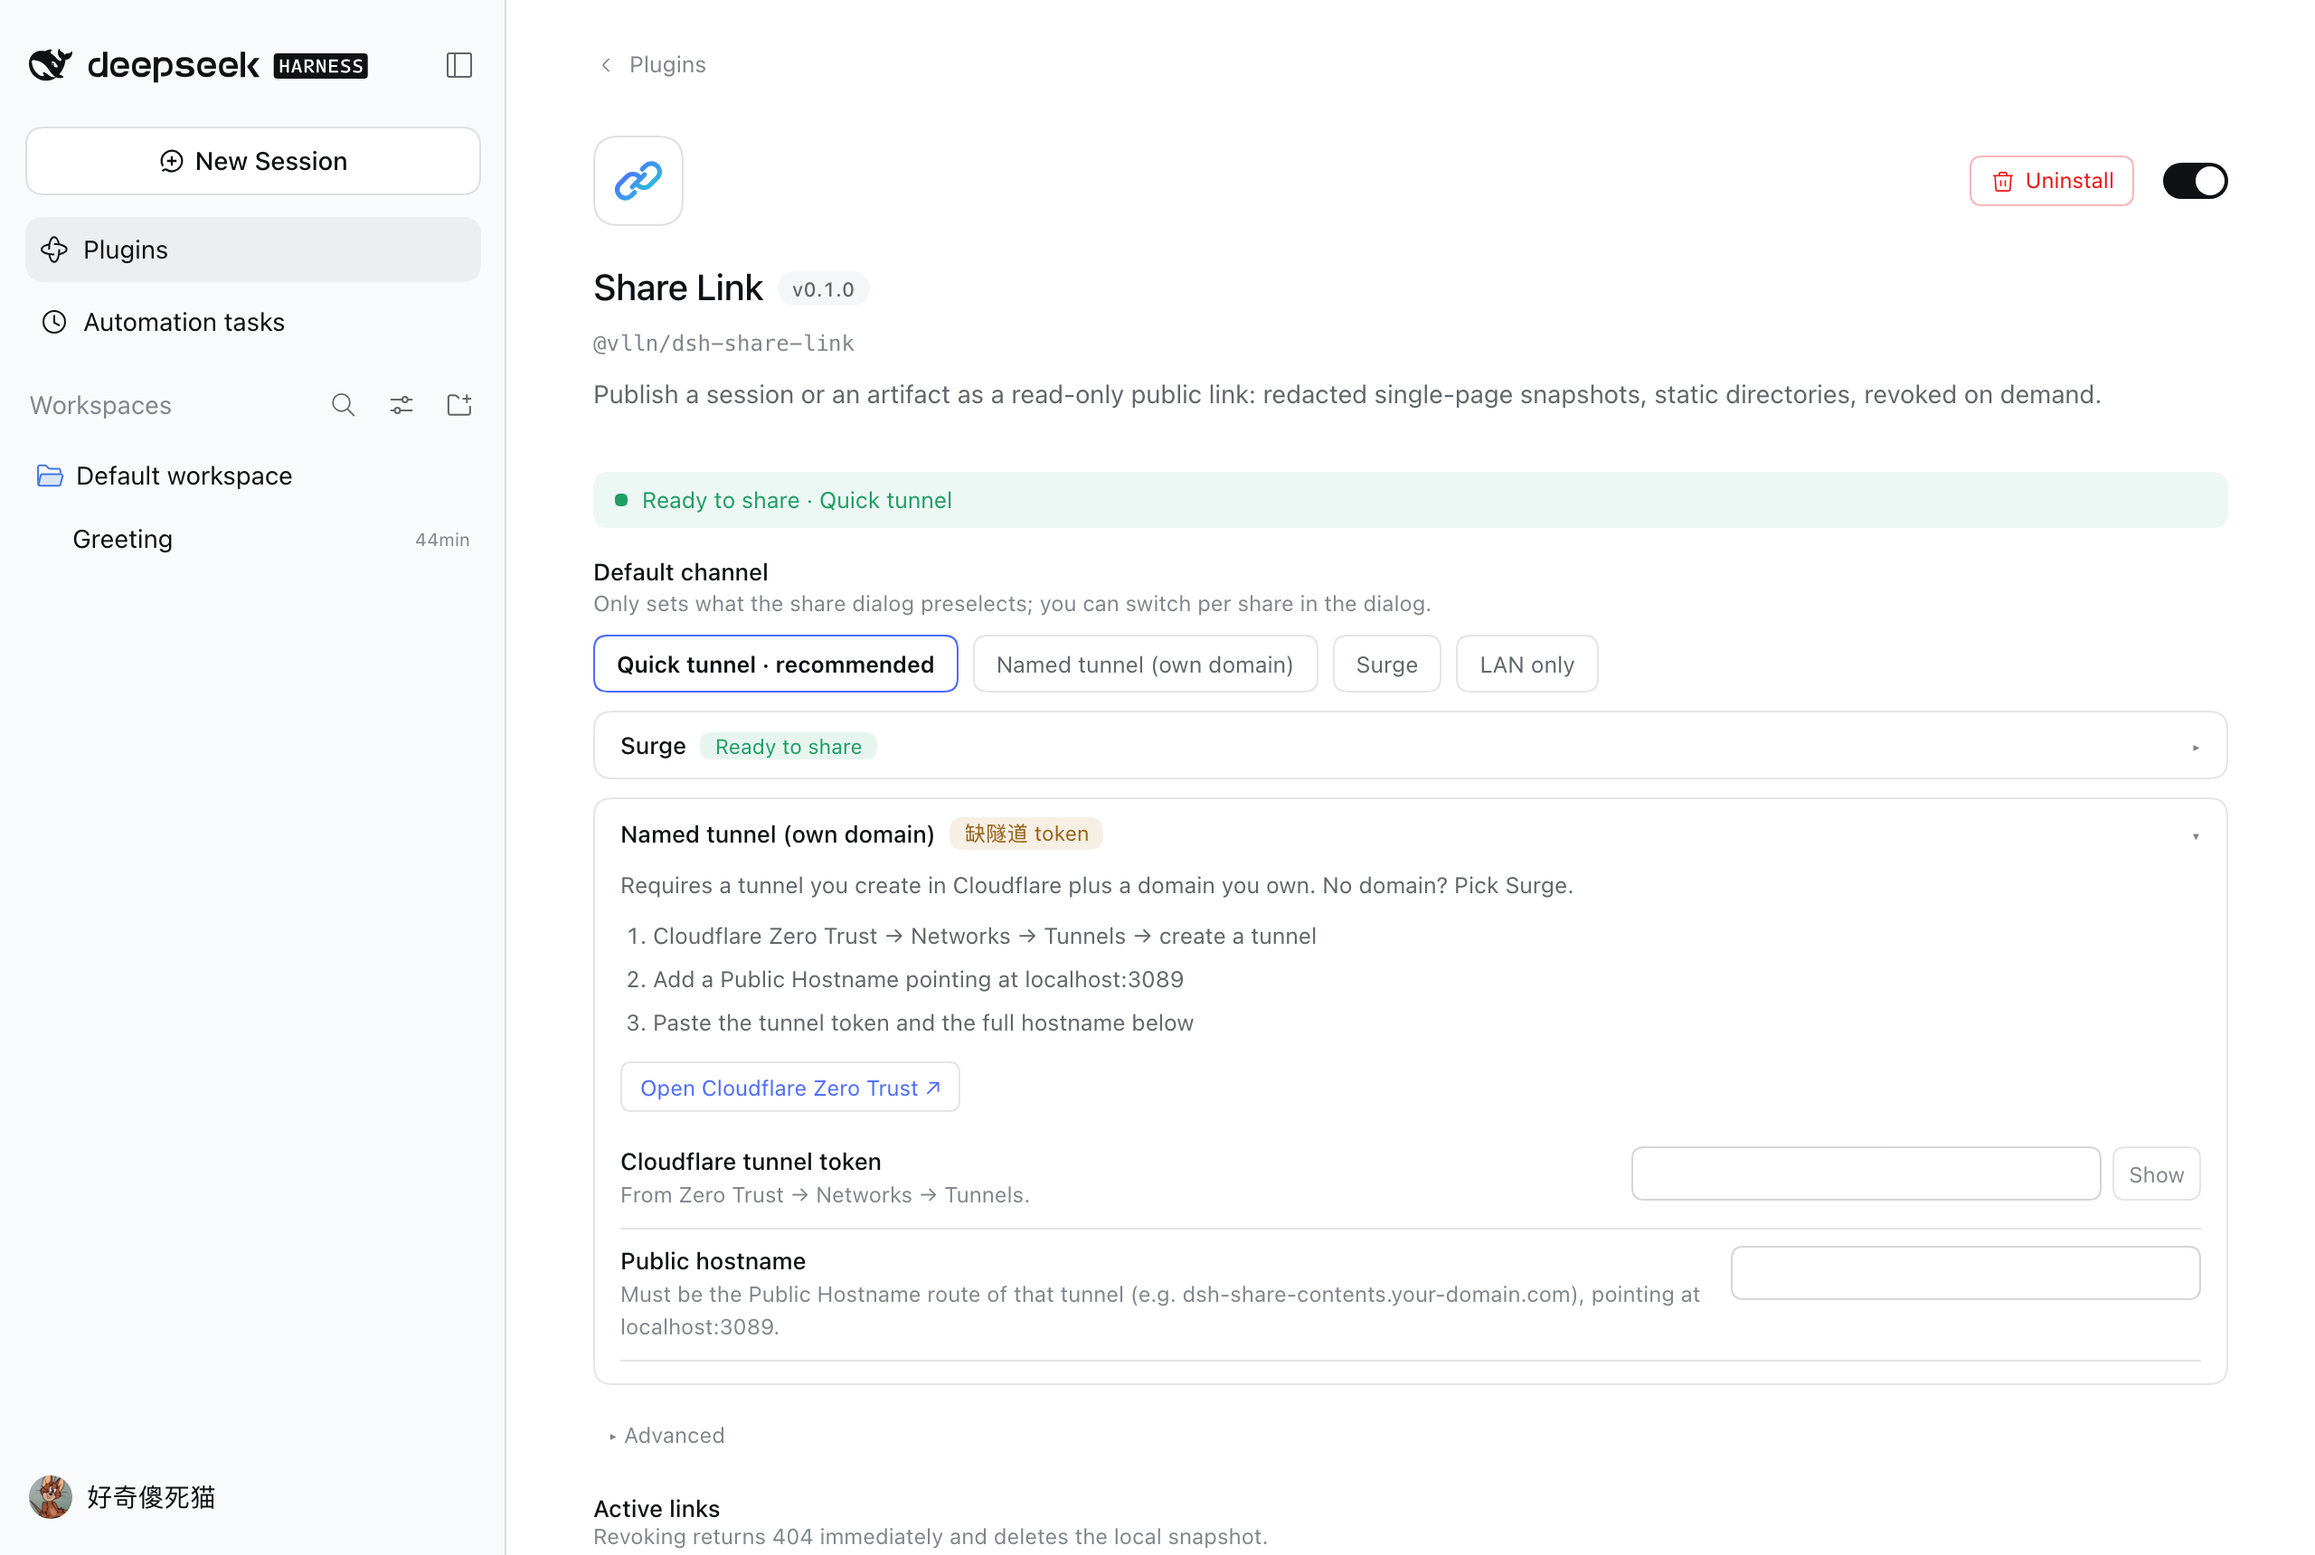
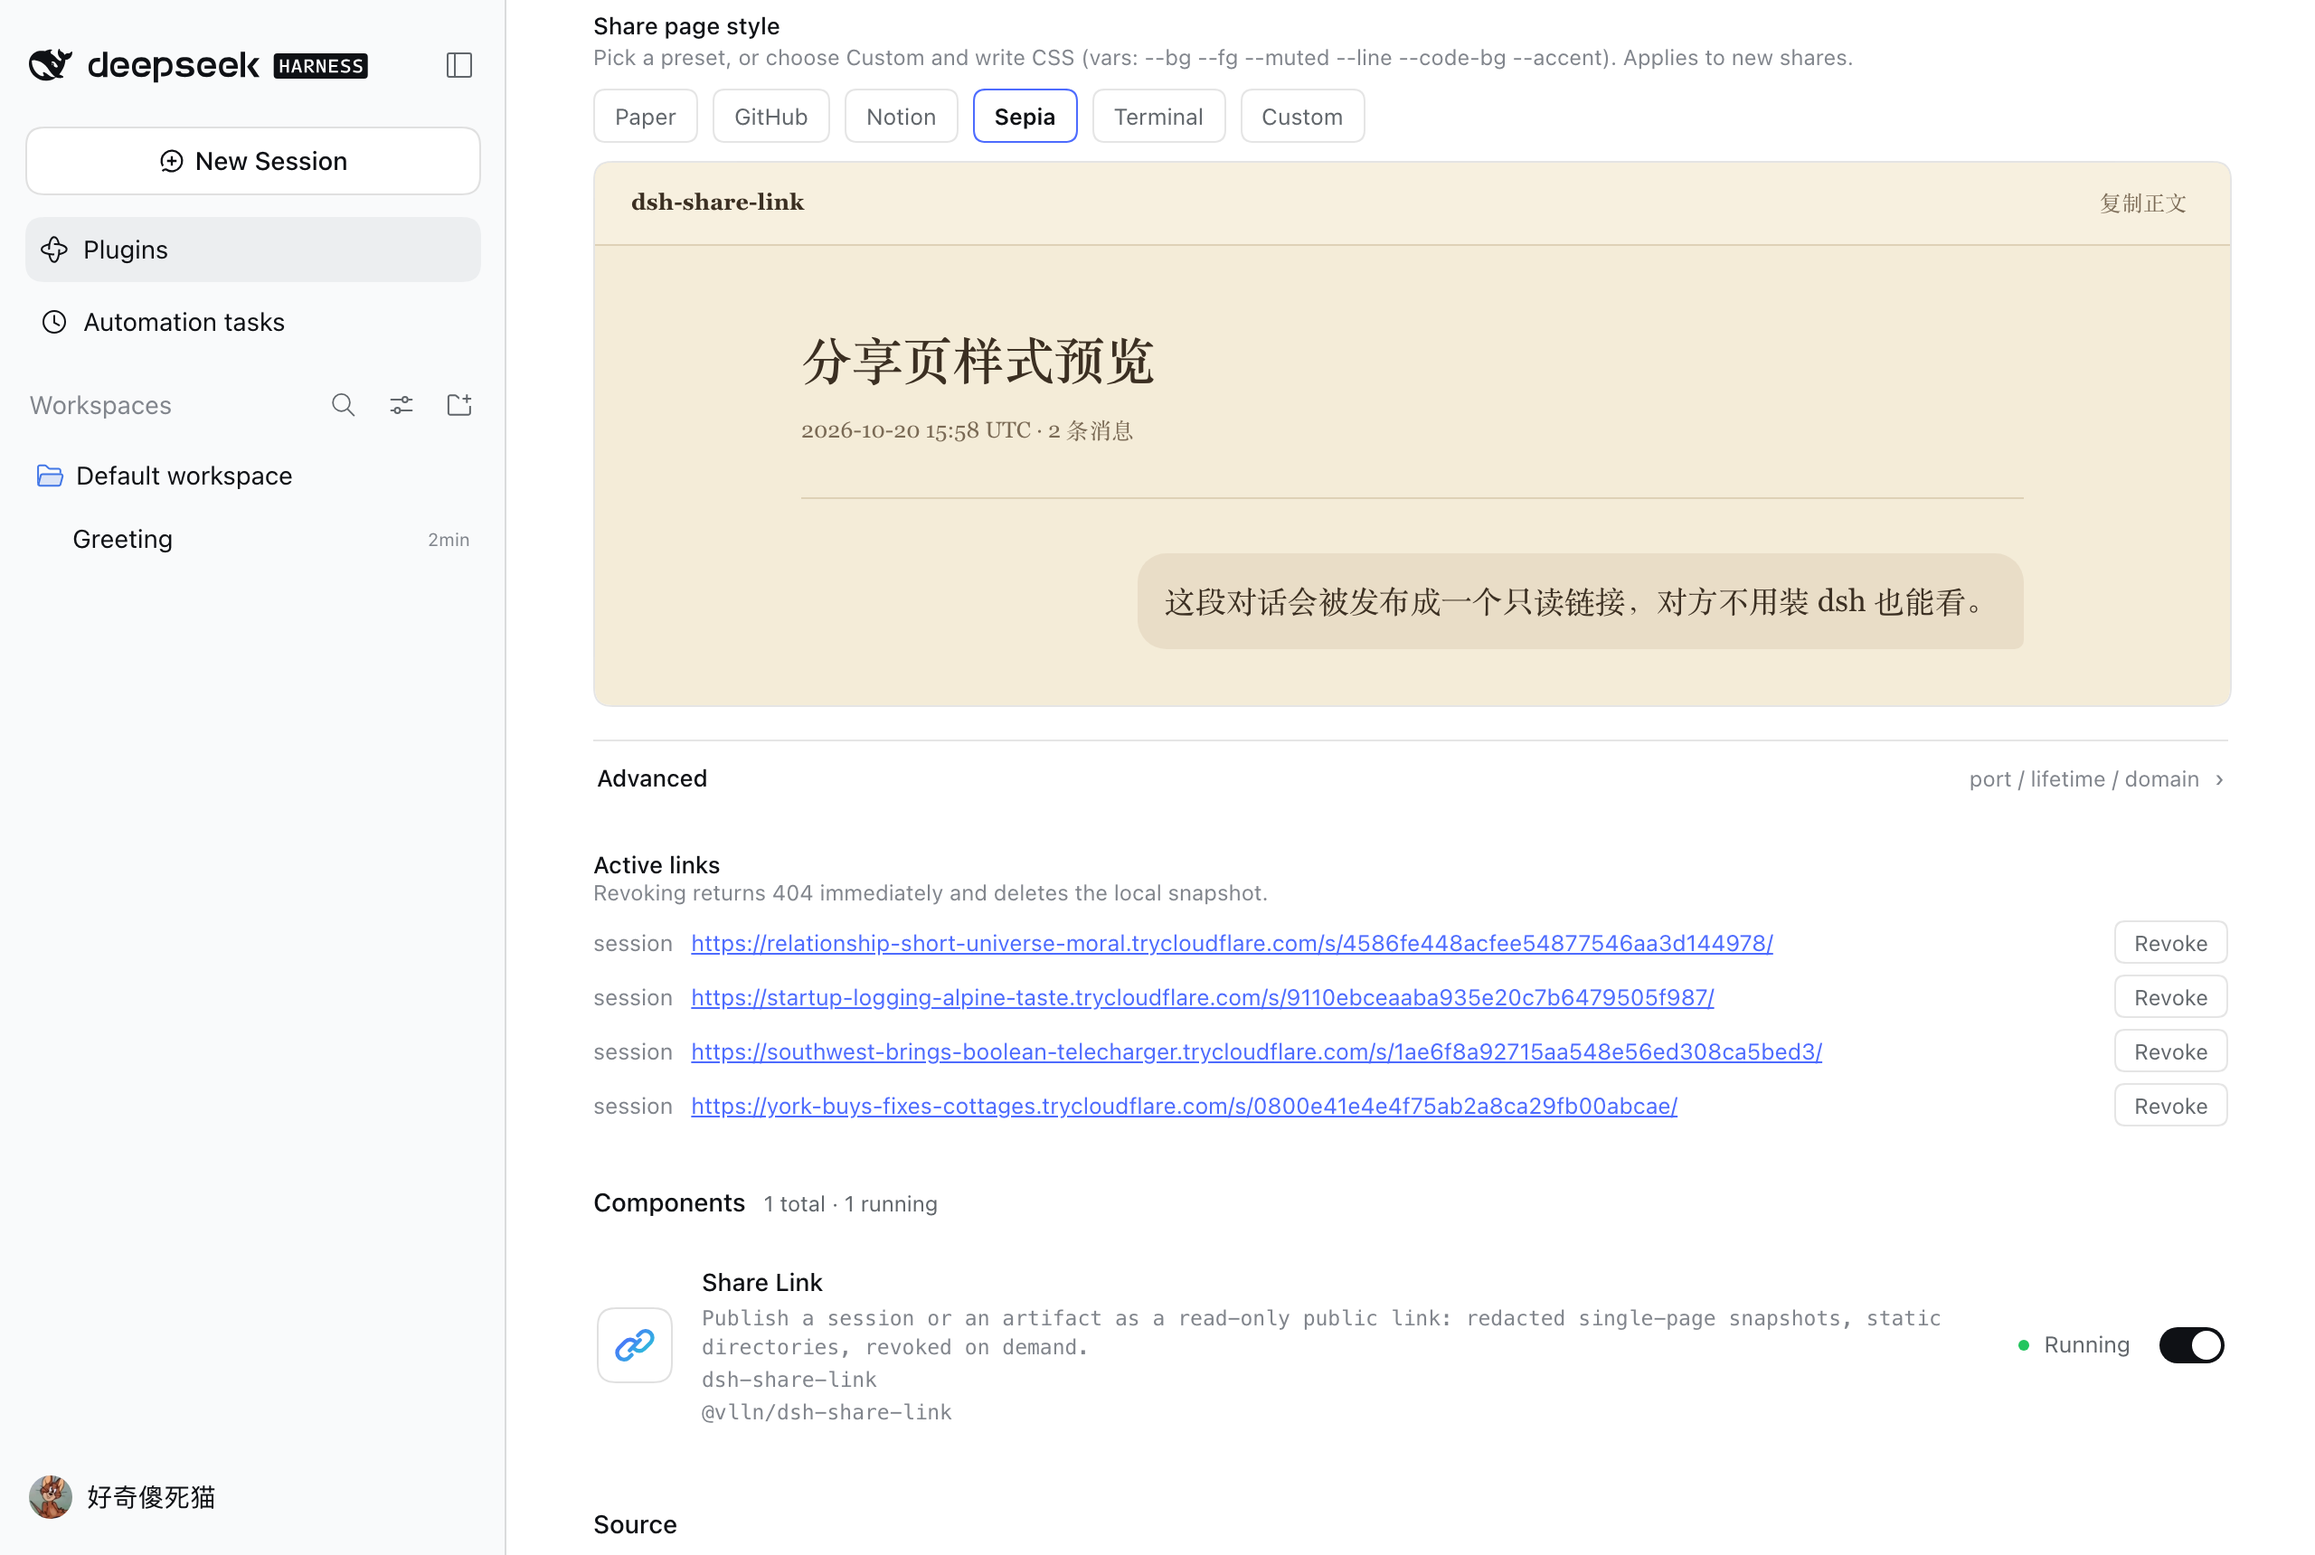
style(pages): 对话式排版 + 去噪 + 文字按钮
- 用户消息改为右对齐气泡，助手回复回归正文流，逐条可复制
- 删除「只读快照」徽标、指纹/脱敏状态行
- 复制按钮改成无边框文字/图标按钮
- Star 文案改为「喜欢这个插件🌟」
- 设置卡「高级设置」改成整行可点的折叠行（更好的层次）

diff --git a/src/client/settings-card.ts b/src/client/settings-card.ts
@@ -509,15 +509,26 @@ export function SettingsCard(props) {
 
     failed === '' ? null : el('p', { role: 'status', style: { margin: '10px 0 0', fontSize: 12, color: 'var(--dsw-alias-state-error-primary)' } }, t('writeFailed')),
 
-    el('button', {
-      type: 'button',
-      'data-share-advanced': 'toggle',
-      onClick: () => setAdvanced((value) => !value),
-      style: {
-        alignSelf: 'flex-start', marginTop: 14, height: 26, padding: '0 8px', borderRadius: 7,
-        border: 0, background: 'transparent', color: 'var(--dsw-alias-label-tertiary)', fontSize: 12, cursor: 'pointer',
+    el(
+      'button',
+      {
+        type: 'button',
+        'data-share-advanced': 'toggle',
+        'data-open': advanced ? 'true' : 'false',
+        onClick: () => setAdvanced((value) => !value),
+        style: {
+          display: 'flex', alignItems: 'center', gap: 8, width: '100%', boxSizing: 'border-box',
+          marginTop: 18, padding: '12px 2px', border: 0, borderTop: '1px solid var(--dsw-alias-border-l2)',
+          background: 'transparent', color: 'var(--dsw-alias-label-primary)', fontSize: 13,
+          fontWeight: 500, cursor: 'pointer', textAlign: 'left',
+        },
       },
-    }, `${advanced ? '▾' : '▸'} ${t('advanced')}`),
+      el('span', null, t('advanced')),
+      el('span', { style: { flex: 1 } }),
+      el('span', { style: { color: 'var(--dsw-alias-label-tertiary)', fontSize: 12, fontWeight: 400 } },
+        advanced ? t('collapse') : t('advanced.hintShort')),
+      el('span', { style: { color: 'var(--dsw-alias-label-tertiary)', transform: advanced ? 'rotate(90deg)' : 'none', transition: 'transform .15s ease' } }, '›'),
+    ),
     advanced
       ? el(
           'div',
@@ -599,6 +610,8 @@ export const zh = {
   notReady: '还不能分享',
   advanced: '高级设置',
   'advanced.hint': '一般不用改：端口、默认有效期、Surge 域名后缀。',
+  'advanced.hintShort': '端口 / 有效期 / 域名',
+  collapse: '收起',
   'channel.quick.desc': '零配置：dsh 在跑就有链接，重启换域名。适合临时发给别人看一眼。首次使用会自动下载 cloudflared（约 50 MB，需要能访问 GitHub）。',
   'channel.surge.desc': '免费账号即可，得到永久固定域名，随时可撤销。',
   'channel.named.desc': '需要你自己在 Cloudflare 建隧道并绑定域名。没有自有域名请直接选 Surge。',
@@ -667,6 +680,8 @@ export const en = {
   notReady: 'Not ready yet',
   advanced: 'Advanced',
   'advanced.hint': 'Usually not needed: port, default lifetime, Surge domain suffix.',
+  'advanced.hintShort': 'port / lifetime / domain',
+  collapse: 'Collapse',
   'channel.quick.desc': 'Zero config: the link lives as long as dsh runs; the hostname changes on restart. On first use it downloads cloudflared (~50 MB, needs GitHub access).',
   'channel.surge.desc': 'Free account is enough; you get a stable domain that you can revoke any time.',
   'channel.named.desc': 'Requires a tunnel you create in Cloudflare plus a domain you own. No domain? Pick Surge.',

diff --git a/lib/client.js b/lib/client.js
@@ -622,20 +622,34 @@ window.__ModuleLoader__.load({
 			}, t("writeFailed")), el("button", {
 				type: "button",
 				"data-share-advanced": "toggle",
+				"data-open": advanced ? "true" : "false",
 				onClick: () => setAdvanced((value) => !value),
 				style: {
-					alignSelf: "flex-start",
-					marginTop: 14,
-					height: 26,
-					padding: "0 8px",
-					borderRadius: 7,
+					display: "flex",
+					alignItems: "center",
+					gap: 8,
+					width: "100%",
+					boxSizing: "border-box",
+					marginTop: 18,
+					padding: "12px 2px",
 					border: 0,
+					borderTop: "1px solid var(--dsw-alias-border-l2)",
 					background: "transparent",
-					color: "var(--dsw-alias-label-tertiary)",
-					fontSize: 12,
-					cursor: "pointer"
+					color: "var(--dsw-alias-label-primary)",
+					fontSize: 13,
+					fontWeight: 500,
+					cursor: "pointer",
+					textAlign: "left"
 				}
-			}, `${advanced ? "▾" : "▸"} ${t("advanced")}`), advanced ? el("div", { style: {
+			}, el("span", null, t("advanced")), el("span", { style: { flex: 1 } }), el("span", { style: {
+				color: "var(--dsw-alias-label-tertiary)",
+				fontSize: 12,
+				fontWeight: 400
+			} }, advanced ? t("collapse") : t("advanced.hintShort")), el("span", { style: {
+				color: "var(--dsw-alias-label-tertiary)",
+				transform: advanced ? "rotate(90deg)" : "none",
+				transition: "transform .15s ease"
+			} }, "›")), advanced ? el("div", { style: {
 				marginTop: 6,
 				padding: "4px 0 0 12px",
 				borderLeft: "2px solid var(--dsw-alias-border-l2)"
@@ -724,6 +738,8 @@ window.__ModuleLoader__.load({
 			notReady: "还不能分享",
 			advanced: "高级设置",
 			"advanced.hint": "一般不用改：端口、默认有效期、Surge 域名后缀。",
+			"advanced.hintShort": "端口 / 有效期 / 域名",
+			collapse: "收起",
 			"channel.quick.desc": "零配置：dsh 在跑就有链接，重启换域名。适合临时发给别人看一眼。首次使用会自动下载 cloudflared（约 50 MB，需要能访问 GitHub）。",
 			"channel.surge.desc": "免费账号即可，得到永久固定域名，随时可撤销。",
 			"channel.named.desc": "需要你自己在 Cloudflare 建隧道并绑定域名。没有自有域名请直接选 Surge。",
@@ -791,6 +807,8 @@ window.__ModuleLoader__.load({
 			notReady: "Not ready yet",
 			advanced: "Advanced",
 			"advanced.hint": "Usually not needed: port, default lifetime, Surge domain suffix.",
+			"advanced.hintShort": "port / lifetime / domain",
+			collapse: "Collapse",
 			"channel.quick.desc": "Zero config: the link lives as long as dsh runs; the hostname changes on restart. On first use it downloads cloudflared (~50 MB, needs GitHub access).",
 			"channel.surge.desc": "Free account is enough; you get a stable domain that you can revoke any time.",
 			"channel.named.desc": "Requires a tunnel you create in Cloudflare plus a domain you own. No domain? Pick Surge.",
